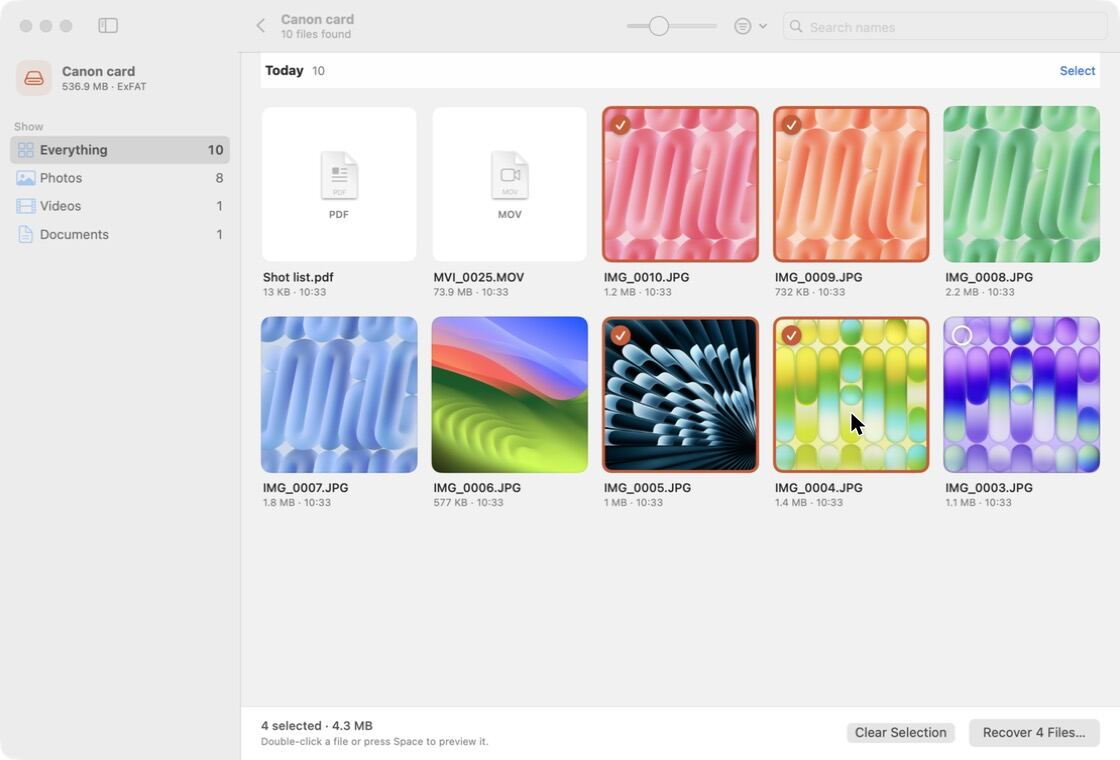
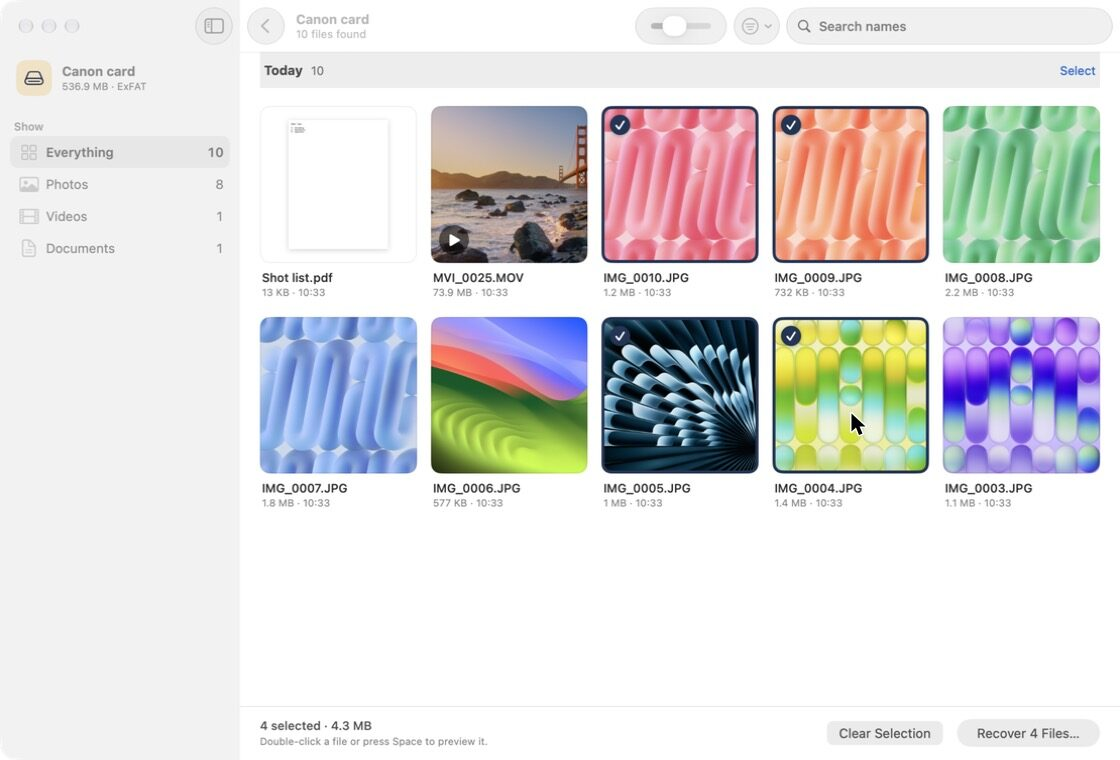
Rebrand to Found Again
Navy and marigold palette, New York serif titles, warm paper home screen, Found Again icon,
FoundAgain-2.0.dmg, foundagain.app site. PDF tiles show the whole page.
New website screenshots taken from the real app.

diff --git a/Sources/DataRecover/Brand.swift b/Sources/DataRecover/Brand.swift
@@ -3,9 +3,9 @@ import SwiftUI
 
 /// Everything that changes with the product's name and look lives here.
 enum Brand {
-    static let name = "Unerase"
-    static let domain = "unerase.app"
-    static let tagline = "Get deleted photos and files back. Free."
+    static let name = "Found Again"
+    static let domain = "foundagain.app"
+    static let tagline = "Lost photos, found again. Free."
     static let website = URL(string: "https://\(domain)")!
     static let donate = URL(string: "https://\(domain)/thanks")!
     static let help = URL(string: "https://\(domain)/help")!
@@ -15,19 +15,41 @@ enum Brand {
         return URL(string: "https://\(domain)/download?from=\(version)")!
     }
     /// Default parent folder for recovered files, inside ~/Pictures or ~/Documents.
-    static let recoveredFolderName = "Recovered with Unerase"
+    static let recoveredFolderName = "Found Again"
 
-    /// Warm coral. Reads as hopeful rather than alarming, and holds contrast in both appearances.
+    /// Ink navy for anything you click. In dark mode it lifts to a mid blue that still carries white button labels.
     static let accent = Color(nsColor: NSColor(name: nil) { appearance in
         appearance.isDark
-            ? NSColor(srgbRed: 1.00, green: 0.55, blue: 0.40, alpha: 1)
-            : NSColor(srgbRed: 0.83, green: 0.33, blue: 0.18, alpha: 1)
+            ? NSColor(srgbRed: 0.30, green: 0.48, blue: 0.77, alpha: 1)
+            : NSColor(srgbRed: 0.118, green: 0.208, blue: 0.341, alpha: 1)
     })
 
+    /// The marigold of the luggage tag, as a wash behind icons and highlights.
     static let accentSoft = Color(nsColor: NSColor(name: nil) { appearance in
         appearance.isDark
-            ? NSColor(srgbRed: 1.00, green: 0.55, blue: 0.40, alpha: 0.16)
-            : NSColor(srgbRed: 0.83, green: 0.33, blue: 0.18, alpha: 0.10)
+            ? NSColor(srgbRed: 0.96, green: 0.72, blue: 0.24, alpha: 0.18)
+            : NSColor(srgbRed: 0.96, green: 0.72, blue: 0.24, alpha: 0.28)
+    })
+
+    /// The home screen's ground: warm paper in light mode, deep navy in dark, matching the website.
+    static let paper = Color(nsColor: NSColor(name: nil) { appearance in
+        appearance.isDark
+            ? NSColor(srgbRed: 0.059, green: 0.102, blue: 0.169, alpha: 1)
+            : NSColor(srgbRed: 0.969, green: 0.953, blue: 0.918, alpha: 1)
+    })
+
+    /// Cards that sit on `paper`.
+    static let card = Color(nsColor: NSColor(name: nil) { appearance in
+        appearance.isDark
+            ? NSColor(srgbRed: 0.090, green: 0.165, blue: 0.267, alpha: 1)
+            : NSColor(srgbRed: 1.0, green: 0.992, blue: 0.973, alpha: 1)
+    })
+
+    /// Marigold itself, for small marks that should feel like the brand rather than a control.
+    static let marigold = Color(nsColor: NSColor(name: nil) { appearance in
+        appearance.isDark
+            ? NSColor(srgbRed: 0.96, green: 0.72, blue: 0.24, alpha: 1)
+            : NSColor(srgbRed: 0.80, green: 0.55, blue: 0.08, alpha: 1)
     })
 
     static let good = Color(nsColor: NSColor(name: nil) { appearance in
@@ -42,8 +64,9 @@ enum Brand {
             : NSColor(srgbRed: 0.70, green: 0.45, blue: 0.00, alpha: 1)
     })
 
+    /// Apple's New York serif, the closest system face to the website's Young Serif.
     static func title(_ size: CGFloat) -> Font {
-        .system(size: size, weight: .semibold, design: .rounded)
+        .system(size: size, weight: .semibold, design: .serif)
     }
 }
 

diff --git a/Sources/DataRecover/Views/HomeView.swift b/Sources/DataRecover/Views/HomeView.swift
@@ -23,7 +23,7 @@ struct HomeView: View {
                 .frame(maxWidth: .infinity)
             }
         }
-        .background(Color(nsColor: .windowBackgroundColor))
+        .background(Brand.paper)
     }
 
     private var header: some View {
@@ -165,7 +165,7 @@ struct DeviceCard: View {
             .frame(maxWidth: .infinity, alignment: .leading)
             .background(
                 RoundedRectangle(cornerRadius: 16, style: .continuous)
-                    .fill(Color(nsColor: .controlBackgroundColor))
+                    .fill(Brand.card)
                     .shadow(color: .black.opacity(hovering ? 0.10 : 0.04), radius: hovering ? 12 : 4, y: hovering ? 4 : 1)
             )
             .overlay(
@@ -254,7 +254,7 @@ struct PlaceButton: View {
             .frame(maxWidth: 300)
             .background(
                 RoundedRectangle(cornerRadius: 12, style: .continuous)
-                    .fill(hovering ? Brand.accentSoft : Color(nsColor: .controlBackgroundColor))
+                    .fill(hovering ? Brand.accentSoft : Brand.card)
             )
             .overlay(
                 RoundedRectangle(cornerRadius: 12, style: .continuous)

diff --git a/Sources/DataRecover/DevTools.swift b/Sources/DataRecover/DevTools.swift
@@ -3,7 +3,7 @@ import DataRecoverCore
 import Foundation
 
 /// Developer commands that exercise the app's own code paths without the window.
-///   Unerase --render-thumbnails <disk image> <output folder>
+///   FoundAgain --render-thumbnails <disk image> <output folder>
 enum DevTools {
     static func runIfRequested() {
         let args = CommandLine.arguments
@@ -48,7 +48,7 @@ enum DevTools {
     }
 
     /// Draws the main window offscreen and saves it as a PNG, for screenshots that don't need screen access.
-    ///   Unerase --snapshot-window <out.png> [--image <disk image>] [--select <count>]
+    ///   FoundAgain --snapshot-window <out.png> [--image <disk image>] [--select <count>]
     @MainActor
     private static func snapshotWindow(to output: URL, image: String?, select: Int) {
         let app = NSApplication.shared

diff --git a/Sources/DataRecover/Views/FileGrid.swift b/Sources/DataRecover/Views/FileGrid.swift
@@ -192,7 +192,14 @@ struct FileTile: View {
     private var picture: some View {
         ZStack {
             Color(nsColor: .controlBackgroundColor)
-            if let image {
+            if let image, file.category == .document {
+                // A page cropped to fill the tile is mostly margin, so show the whole page.
+                Image(nsImage: image)
+                    .resizable()
+                    .aspectRatio(contentMode: .fit)
+                    .shadow(color: .black.opacity(0.18), radius: 3, y: 1)
+                    .padding(14)
+            } else if let image {
                 Image(nsImage: image)
                     .resizable()
                     .aspectRatio(contentMode: .fill)

diff --git a/Sources/DataRecover/Views/RecoverSheet.swift b/Sources/DataRecover/Views/RecoverSheet.swift
@@ -189,7 +189,7 @@ struct DonationCard: View {
             ZStack {
                 Circle().fill(Brand.accentSoft).frame(width: 44, height: 44)
                 Image(systemName: "heart.fill")
-                    .foregroundStyle(Brand.accent)
+                    .foregroundStyle(Brand.marigold)
                     .font(.title3)
             }
             VStack(alignment: .leading, spacing: 6) {

diff --git a/README.md b/README.md
@@ -1,4 +1,6 @@
-# DataRecover (working name; public brand to be chosen)
+# Found Again
+
+[foundagain.app](https://foundagain.app) · The repository and Swift targets keep the original working name, DataRecover.
 
 A free Mac app that gets deleted photos, videos and files back from memory cards, USB sticks and external drives. No trial, no limits, no account, and the app never goes online. A tip request appears only after a successful recovery.
 
@@ -41,7 +43,7 @@ Requires macOS 14+ and Xcode 16+ (developed on Xcode 27 / macOS 27).
 scripts/dev/make-test-card.sh /tmp/cards exfat       # exFAT card with deleted photos, a video and a PDF
 scripts/dev/make-test-card.sh /tmp/cards formatted   # FAT32 card reformatted after shooting
 hdiutil attach /tmp/cards/card-exfat.dmg
-RECOVER_ALLOW_DISK_IMAGES=disk12 dist/Unerase.app/Contents/MacOS/Unerase   # list that image as if it were a card
+RECOVER_ALLOW_DISK_IMAGES=disk12 "dist/Found Again.app/Contents/MacOS/FoundAgain"   # list that image as if it were a card
 ```
 
 `RECOVER_DEFAULT_DESTINATION=/tmp/out` makes recoveries default to a disposable folder. `--render-thumbnails <image> <folder>` and `--snapshot-window <png> [--image <dmg>] [--select n]` check thumbnails and the window without screen access.
